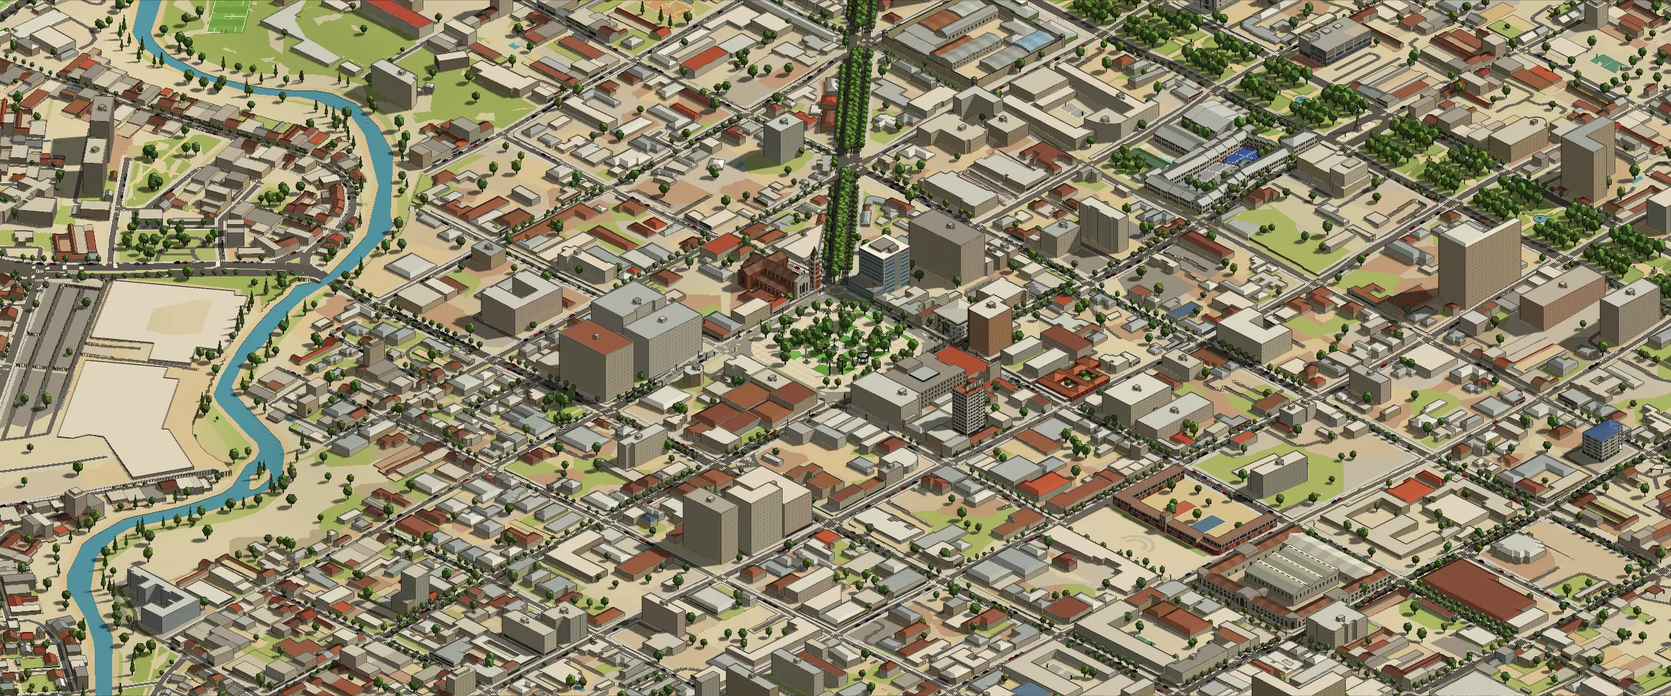
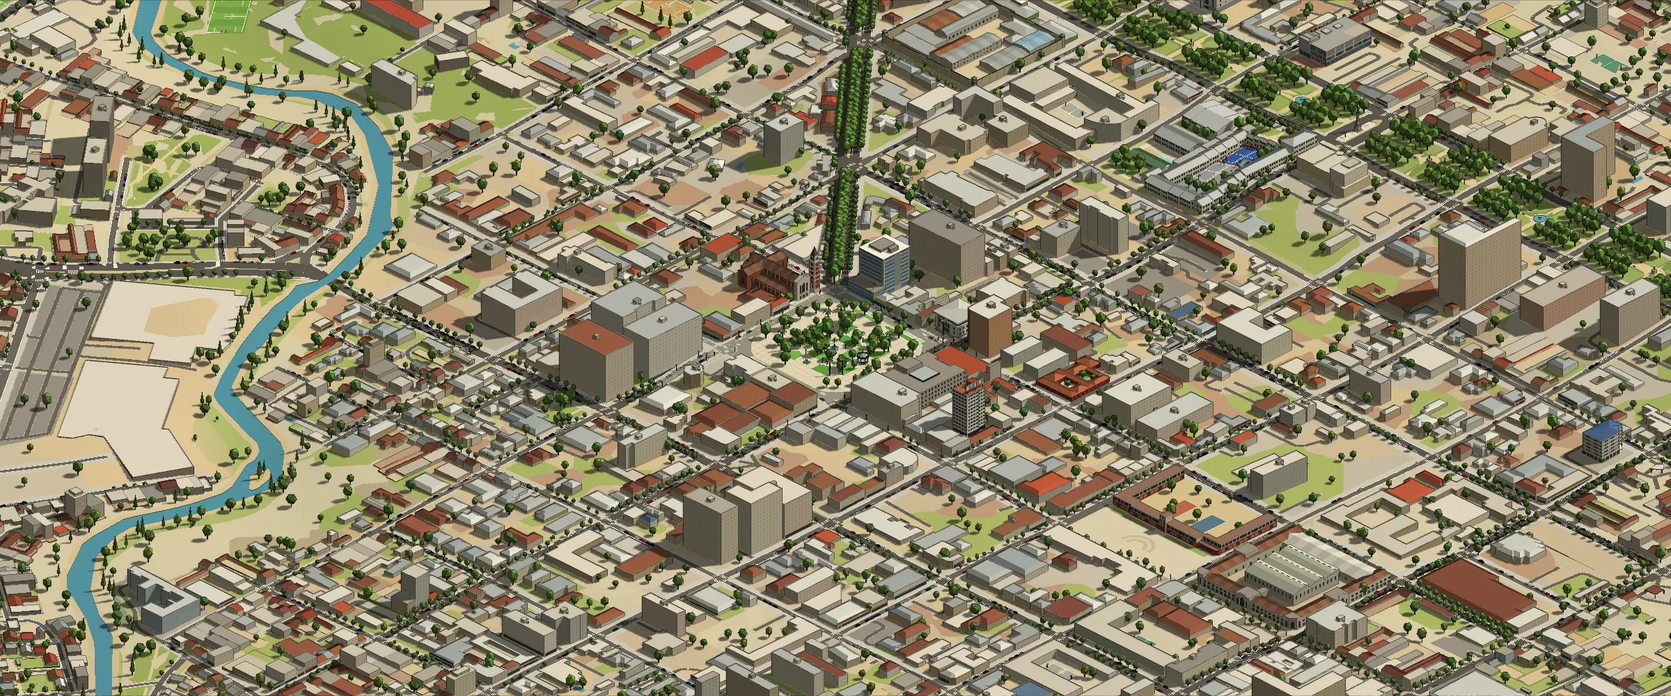
El suelo de las manzanas enteras de OSM apoyado en el terreno (drapeQ, a 0,2), en vez de un plano por manzana que en 103 de 128 se despegaba más de 0,5 m del suelo (la franja de 1 Sur frente a la plaza, hasta 2,5 m); pósters y og.jpg rehechos

diff --git a/src/js/52-edificios.js b/src/js/52-edificios.js
@@ -293,26 +293,20 @@ function edRaster(Y,bk,bb){const C=bk.ml?2:1,FRONT=3.2,{bi,mix,surf}=bk,xs=ED_XS
     pc=eds.map(e=>e.t==='techo'||e.t==='galpon'||(mix&&e.t!=='casa'&&e.t!=='otro')?pick(r,CP.paved):yb||pick(r,yc)),
     colOf=v=>v===-2?ED_K.walk:v===-4?PASEO_K.pave:v===1?(mix?null:PAL.backlot[bi%3]):v>=100?pc[v-100]:v>=10?ED_K.surf[surf[v-10].k]:null;
   const laid=(i,j)=>{if(i<0||j<0||i>=nx||j>=ny)return false;const v=own[j*nx+i];return v>0||v===-2||v===-4;};
-  // a whole block: the tops of the rectangles lie on one plane fitted to its ground (least squares over a 5 m grid of
-  // it, raised to clear the highest point by o): with a top per rectangle at its own height, the few millimetres
-  // between neighbours were outlined by the pixel art, and tops following the terrain left cracks at the T-junctions
-  let qa=0,qb=0,qc=E(X0+nx/2,Y0+ny/2),lift=0;
-  if(!mix){let n=0,sx=0,sy=0,sz=0,sxx=0,syy=0,sxy=0,sxz=0,syz=0;
-    for(let j=0;j<ny;j+=5)for(let i=0;i<nx;i+=5){if(!laid(i,j))continue;const x=i-nx/2,y=j-ny/2,z=E(X0+i+.5,Y0+j+.5);n++;sx+=x;sy+=y;sz+=z;sxx+=x*x;syy+=y*y;sxy+=x*y;sxz+=x*z;syz+=y*z;}
-    if(n>=3){const mx=sx/n,my=sy/n,mz=sz/n,cxx=sxx/n-mx*mx,cyy=syy/n-my*my,cxy=sxy/n-mx*my,cxz=sxz/n-mx*mz,cyz=syz/n-my*mz,det=cxx*cyy-cxy*cxy;
-      if(Math.abs(det)>1e-9){qa=(cxz*cyy-cyz*cxy)/det;qb=(cyz*cxx-cxz*cxy)/det;}qc=mz-qa*mx-qb*my;}
-    for(let j=0;j<ny;j+=2)for(let i=0;i<nx;i+=2){if(!laid(i,j))continue;lift=Math.max(lift,E(X0+i+.5,Y0+j+.5)-(qa*(i+.5-nx/2)+qb*(j+.5-ny/2)+qc));}}
-  const plane=(x,y)=>qa*(x-X0-nx/2)+qb*(y-Y0-ny/2)+qc+Math.min(lift,.6);
+  // the rectangles lie on the ground (drapeQ: cut at the terrain mesh's triangles, so neighbours share its surface,
+  // no cracks at the T-junctions and no millimetres between them for the pixel art to outline), at .135 in a mixed
+  // block, under its lots' slabs; at .2 in a whole one (.18 its strip of sidewalk to the facades, -2, and a paseo's,
+  // -4). Until November 2026 a whole block's lay on one plane fitted to its ground by least squares: most blocks'
+  // ground is not a plane (the plaza's pad and the city rising to the east), and 103 of 128 rose more than 0.5 m
+  // above it somewhere (the strip along 1 Sur, south of the plaza, up to 2.5 m) or sank under it
   let open=new Map();const emit=(x0,x1,y0,y1,v)=>{const col=colOf(v);if(!col)return;const q=[[X0+x0*C,Y0+y0*C],[X0+x1*C,Y0+y0*C],[X0+x1*C,Y0+y1*C],[X0+x0*C,Y0+y1*C]];EDS.rects++;
     if(mix){drapeQ(Y,q,.135,col);return;}
-    const o=v===-2||v===-4?.18:.2,sd=shade(col,.82);Y.dy=0;const tp=q.map(p=>[p[0],plane(p[0],p[1])+o,-p[1]]);Y.face(tp,[0,1,0],col);
-    const out=[[(x0+x1)/2,y0-.5,0,-1],[x1+.5,(y0+y1)/2,1,0],[(x0+x1)/2,y1+.5,0,1],[x0-.5,(y0+y1)/2,-1,0]];
+    const o=v===-2||v===-4?.18:.2;Y.dy=0;drapeQ(Y,q,o,col);
     // an underlay 3 cm lower, wider by 0.25 m on the sides with a laid neighbour: the raster leaves pixel gaps at the
     // T-junctions between rectangles, and they show it, in the same colour, instead of the ground (an outlined dot)
-    const g=out.map(([ci,cj])=>laid(Math.floor(ci),Math.floor(cj))?.25:0),u=[[X0+x0-g[3],Y0+y0-g[0]],[X0+x1+g[1],Y0+y0-g[0]],[X0+x1+g[1],Y0+y1+g[2]],[X0+x0-g[3],Y0+y1+g[2]]];
-    if(g.some(v=>v))Y.face(u.map(p=>[p[0],plane(p[0],p[1])+o-.03,-p[1]]),[0,1,0],col);
-    for(let k=0;k<4;k++){const [ci,cj,nx_,ny_]=out[k];if(laid(Math.floor(ci),Math.floor(cj)))continue;const a=tp[k],b=tp[(k+1)%4];
-      Y.face([[a[0],E(q[k][0],q[k][1])-.4,a[2]],[b[0],E(q[(k+1)%4][0],q[(k+1)%4][1])-.4,b[2]],b,a],[nx_,0,-ny_],sd);}};
+    const out=[[(x0+x1)/2,y0-.5],[x1+.5,(y0+y1)/2],[(x0+x1)/2,y1+.5],[x0-.5,(y0+y1)/2]];
+    const g=out.map(([ci,cj])=>laid(Math.floor(ci),Math.floor(cj))?.25:0);
+    if(g.some(v=>v))drapeQ(Y,[[X0+x0-g[3],Y0+y0-g[0]],[X0+x1+g[1],Y0+y0-g[0]],[X0+x1+g[1],Y0+y1+g[2]],[X0+x0-g[3],Y0+y1+g[2]]],o-.03,col);};
   const cid=new Map(),same=bk.ml?(v=>{const c=colOf(v);if(!c)return -1e9;let k=cid.get(c);if(k===undefined)cid.set(c,k=cid.size);return k;}):(v=>v);
   for(let j=0;j<=ny;j++){const cur=new Map();
     if(j<ny)for(let i=0;i<nx;){const v=own[j*nx+i],sv=same(v);let e=i+1;while(e<nx&&same(own[j*nx+e])===sv)e++;if(colOf(v)){EDS[mix?'cellsX':'cells']+=(e-i)*C*C;const k=i+','+e+','+sv,o=open.get(k);cur.set(k,o?o:[i,e,j,v]);open.delete(k);}i=e;}

diff --git a/CLAUDE.md b/CLAUDE.md
@@ -147,7 +147,7 @@ Secciones del script, en orden:
 | `40-three.js` | cámara ortográfica, luces (cielo `HEMI_I`, sol `SUN_I` en la dirección `SUND`, con sombras), `winMat()`: Lambert con ventanas procedurales en el shader (`uNight`, `uWin`) |
 | `45-landmarks.js`, `hitos/` | `buildModels(B, S)`: modelos a mano de los hitos, cada uno en su archivo `hitos/<id>.js`, que empieza con la línea `  // ==== hito: <id> ====` (no la borre: la revisa `make check`), pegados en el marcador `/*HITOS*/` del cuerpo de la función en el orden de `hitos/ORDER` (el orden importa; su encabezado dice por qué). Un hito usa las variables de la cabecera de `buildModels` (`C`, `at`, `reserve`, `p`) y las que declaran los hitos anteriores (`palmS`, `flagS`, de la plaza). Reservan su huella en `occ` y registran una explanada (`padAt`) antes de generar la ciudad. `S` se dibuja sin ventanas procedurales (el Estadio, la Catedral). `localFrame(X,Y,A)` da el marco local de un hito (`G`, `V`, `N3`, `R`) y `facade(S,F,K)` el vocabulario de fachada (muros, paños, arcos, vitrales, techos; ESTETICA §7). `NOLOTS` excluye recintos enteros de la ciudad generada; `GLOW` agrega luces nocturnas a `lamps()`. `deckBridge(S,K,pts,hw,hAt,o)` (antes de `buildModels`) dibuja un tablero sobre pilas para cualquier puente, con la altura `hAt(p)` del vano, veredas y parapetos o balaustrada, y marca su huella en `occ`: lo usan los dos puentes del Río Claro |
 | `50-city.js` | `CITY_ORDER`: las calles en el orden en que `cityGen` pone sus lotes, de la más cercana a la Plaza de Armas a la más lejana (trampa «El orden de la ciudad»); `blockTrees(bi)`: los árboles de parque y de patio de cada manzana, con una cuota fija (`YARD_K`). `styleFor()` clasifica cada manzana (core, core2, ind, apt, house); `barrios()` agrupa las manzanas construidas en barrios (Voronoi de semillas cada `BAR_G` m) y les da una receta según distancia a la plaza y densidad (`recipeOf(bi)`: antiguo, pob, pareada, fila, condo; bloques para `apt`; galpones en las manzanas grandes casi vacías). `cityGen(B, Y)` recorre cada tramo de calle por ambos lados y coloca casas, cada una sobre su lote: una losa en `Y` (sin ventanas) que llega al medio de la manzana, con alas, construcciones al fondo, mediaguas y árboles de patio. Techos por familia en dos tonos (`CP.roof`, mezclas `MIX`), `hipRoof()`, `lotWalls`/`lotGable` (pareadas y filas sin muros interiores), almacenes en esquinas y avenidas (`shopFront`), galpones de dos aguas, diente de sierra y bóveda con estanques. Lo que no lleva ventanas va en `Z`, una malla propia que crea `cityGen`. Los lotes se prueban entre sí como rectángulos exactos (`LOTS`, `lotFree`, `sepQuad`) |
-| `52-edificios.js` | bajo `// ==== edificios de OSM ====`: `ED` decodifica `DATA.ed` (pipeline/edificios.py; las huellas de `DATA.ed.h` con las mismas operaciones que `h_encode`, que da los mismos enteros): `ED.bks`, las manzanas enteras (`blocks[bi].osm`, donde `cityGen()` no pone lotes) y las mixtas (`blocks[bi].mixto`, donde los pone en los frentes libres), cada una con sus edificios y superficies. `edificiosPlan()` (después de los hitos, antes de `usosPlan`) deja fuera los que un hito ya modela, recorta las plantas a la línea de las veredas (`clipHalf`) y las marca en `occ` con 3; en una manzana mixta, `edHulls(bk)` cierra a los lotes (`lotBlock`, en `50-city.js`) la envolvente convexa de cada edificio crecida `ED_GAP` (2 m) y la de cada superficie (`edHull`), justo antes de la primera calle que la alcanza (`edHullsFor`) o de su suelo (trampa «Las manzanas mixtas»). `edificiosBase(B,Z,Y,bks)` (antes de la ciudad, clave 2,5e7 + la manzana; las de la caja de la primera vista en la primera etapa, el resto en `rest()`) dibuja cada edificio (`edificio()`: muros con `ringWalls`, techo plano con pretil o a cuatro aguas con `insetRing`, `flatH` para polígonos con huecos, `shopFront` en los frentes a la calle) y el suelo de la manzana (`edificiosGround`/`edRaster`: grilla de 1 m, superficies de OSM y patios por búsqueda en anchura; en una entera, franja de vereda hasta las fachadas y rectángulos de losa sobre un plano por manzana; en una mixta, los patios hasta `ED_YARD` (20 m) de cada edificio, apoyados en el suelo a 0,135, bajo las losas de los lotes, un raster por grupo de edificios). Las huellas de aprendizaje automático (`e.f`: `ms`, `google`; trampa «Las huellas de aprendizaje automático») van en las mixtas y en grupos sueltos (`bk.loose`, de `DATA.ed.z`: sin manzana ni suelo, con su envolvente en `lotBlock`); una manzana mixta con huellas (`bk.ml`) toma celdas de 2 m y junta sus rectángulos por color, y si mide menos de `ED_SOLID` (6 ha) es sólida (`bk.solid`): su propio suelo (`buildBase`, `edYardCol`) toma el color de patio del barrio y el raster solo corre alrededor de lo que no es casa y de las superficies. `window.__ed` da los conteos (`src`, por fuente) y los ms (`decodeMs`, `planMs`, `msEd` edificios, `msGm` y `msGx` el suelo de las enteras y las mixtas) |
+| `52-edificios.js` | bajo `// ==== edificios de OSM ====`: `ED` decodifica `DATA.ed` (pipeline/edificios.py; las huellas de `DATA.ed.h` con las mismas operaciones que `h_encode`, que da los mismos enteros): `ED.bks`, las manzanas enteras (`blocks[bi].osm`, donde `cityGen()` no pone lotes) y las mixtas (`blocks[bi].mixto`, donde los pone en los frentes libres), cada una con sus edificios y superficies. `edificiosPlan()` (después de los hitos, antes de `usosPlan`) deja fuera los que un hito ya modela, recorta las plantas a la línea de las veredas (`clipHalf`) y las marca en `occ` con 3; en una manzana mixta, `edHulls(bk)` cierra a los lotes (`lotBlock`, en `50-city.js`) la envolvente convexa de cada edificio crecida `ED_GAP` (2 m) y la de cada superficie (`edHull`), justo antes de la primera calle que la alcanza (`edHullsFor`) o de su suelo (trampa «Las manzanas mixtas»). `edificiosBase(B,Z,Y,bks)` (antes de la ciudad, clave 2,5e7 + la manzana; las de la caja de la primera vista en la primera etapa, el resto en `rest()`) dibuja cada edificio (`edificio()`: muros con `ringWalls`, techo plano con pretil o a cuatro aguas con `insetRing`, `flatH` para polígonos con huecos, `shopFront` en los frentes a la calle) y el suelo de la manzana (`edificiosGround`/`edRaster`: grilla de 1 m, superficies de OSM y patios por búsqueda en anchura; en una entera, franja de vereda hasta las fachadas y rectángulos de losa apoyados en el terreno a 0,2 (`drapeQ`); en una mixta, los patios hasta `ED_YARD` (20 m) de cada edificio, apoyados en el suelo a 0,135, bajo las losas de los lotes, un raster por grupo de edificios). Las huellas de aprendizaje automático (`e.f`: `ms`, `google`; trampa «Las huellas de aprendizaje automático») van en las mixtas y en grupos sueltos (`bk.loose`, de `DATA.ed.z`: sin manzana ni suelo, con su envolvente en `lotBlock`); una manzana mixta con huellas (`bk.ml`) toma celdas de 2 m y junta sus rectángulos por color, y si mide menos de `ED_SOLID` (6 ha) es sólida (`bk.solid`): su propio suelo (`buildBase`, `edYardCol`) toma el color de patio del barrio y el raster solo corre alrededor de lo que no es casa y de las superficies. `window.__ed` da los conteos (`src`, por fuente) y los ms (`decodeMs`, `planMs`, `msEd` edificios, `msGm` y `msGx` el suelo de las enteras y las mixtas) |
 | `55-rivers.js` (ríos), `60-streets.js` (veredas, cruces, árboles de vereda, autos), `62-diagonal.js`, `63-paseos.js` (`paseosBase`: los paseos peatonales de `PASEOS`, en `10-decode.js`, con su ancho, baldosas, árboles, faroles y maceteros), `64-base.js` (`walkBase`, `buildBase`), `66-ruta5.js`, `68-rail.js` | parcelas agrícolas, manzanas, ríos (con suavizado Chaikin), Ruta 5 (`ruta5Base`: dos calzadas de OSM, `R5.c`, con sus pistas, líneas, bandejón y ramales `R5.k`, a 0,16 sobre las calles; sus tramos en puente o terraplén los dibujan los hitos con `r5Deck`/`r5Raise`, que dejan huecos en `R5C[k].gaps`; `ruta5Objects()` pone la barrera, los postes, cuyas luces van a `GLOW`, y los autos), calles, vía férrea (`railBase`, sobre ellas); todo pasa por `drape()`. Los tres ríos son de OSM (`RIV[k]`, de `DATA.area[k]`; ramas laterales en `DATA.branch`) y van sobre las manzanas (`riverBase`): el agua de todos en una malla propia (`riverWater`, `matWater` con `polygonOffset`), con franjas de ripio fuera de las orillas y una cinta de `ancho_m` sobre el eje donde no hay área (`riverRuns`); `riversLevel`/`riversRelevel` los nivelan, `riversOcc` los deja ocupados y `linesOcc` hace lo mismo con la Ruta 5 y la vía férrea. `walkRuns(sis, occOf)` traza las veredas de las calles `sis`; `walkBase()` (`64-base.js`) hace en la primera etapa solo las calles cuyas veredas alcanzan `STAGE`, y `walkRest()` las demás al comienzo de `rest()`, con `occWas`. `CLARO` e `inClaro` siguen como atajos para los hitos de la ribera. Una calle con `s.bridge` (la Ruta K-60-J sobre el río) no se dibuja: la dibuja el hito del puente. `railBase()` dibuja las dos líneas (`DATA.rail`, `DATA.ramal`) y las vías de patio (`RAIL_YARD`) muestreadas cada 0,7 m con un perfil de alturas: en el suelo, balasto, durmientes y rieles drapeados; donde una calle pasa bajo la vía (`DATA.railx` tipo 0), terraplén y tablero; los puentes que registran los hitos (`RAIL_BR`) se dibujan ahí, con el perfil final. Lo que no es plano (terraplenes, tableros, puentes, postes, señales, barreras) va en una malla propia que proyecta sombra. `RAILP` (`window.__rail`) guarda cada línea como camino para el tren |
 | `70-trains.js` | bajo `// =============== trains ===============`: `trainCar()` construye cada coche (sfb, adm, loco, wagon; `nose` ±1 para las cabinas) en un marco local; `makeTrain()`/`trainPlace()` los ubican por su `s` sobre `RAILP`, a la altura `h` y orientados por la tangente entre sus bogies; `trainsInit()` (en `boot`, después de `buildBase`) arma los tres trenes y el horario de cada línea (`TRAIN.lines`); `trainsTick(now)` (desde `loop`) avanza el horario y los trenes y devuelve `true` cuando corresponde un cuadro: a `TRAIN_FPS` (18) mientras un tren se mueve dentro de la vista. `trainTurn()` da vuelta un tren: en su lugar (el Buscarril en el andén) o fuera del mapa (la locomotora sigue adelante). De noche, `trainsNight()`: ventanas por `matTrainWin.emissive` y el foco como un punto de `TRAIN.pts` (`GLOWPTS`, con los faroles). `window.__train`, `__trains`, `__trainFps` |
 | `72-alameda.js` | la Alameda: `ALAM` (las franjas de parque en el medio de la avenida), `alamedaPlan()` (la plaza de cada tramo, centrada en un hito; trampa «El punto de un edificio junto a la Alameda»), `alamedaGround()` y `alamedaPark()` (paseo, plazas, faroles y álamos); también `PO_FIELD` y `PLAZA_BI` |
@@ -273,7 +273,7 @@ Se publica con `make deploy` (`scripts/deploy-cloudflare.sh`: `make build` y `np
 - **`occ` no es un arreglo.** Sobre la caja de la comuna serían 78 millones de celdas (y otras tantas para `OCC0` y `BLK`): es un `Grid` en bloques de 128 × 128 que se crean al escribir. Use `occ.get(gx, gy)` y `occ.set(gx, gy, v)` dentro de la caja (quien llama revisa los bordes), no `occ[gy*ocW+gx]`.
 - **Los `bi` de `config/usos.json` son índices de `data/geometry.json`.** Si cambia qué manzanas entran o su orden (otro recorte, otro filtro), los índices cambian: hay que rehacerlos con la manzana idéntica de la geometría nueva, como en octubre de 2026 al pasar a la comuna (los que caían fuera quedaron como `poly`). `make check` no lo detecta.
 - **Los edificios de OSM marcan `occ` con 3, no con 1.** Con 1 cortarían las veredas, los cruces, los árboles de vereda y los autos estacionados (todo eso cede solo ante 1) y la prueba de `cityGen` los vería; con 3 los evitan los árboles (`occAt` verdadero), los objetos de los usos (`fits` lee `OCC0` como verdadero) y los pabellones genéricos de un uso con edificios de OSM encima (`u.osm`). Algo nuevo que deba esquivar edificios reales pregunte por `occAt(x,y)` verdadero, no por `=== 1`.
-- **Losas de los edificios de OSM.** El suelo de una manzana de OSM son miles de rectángulos de 1 m fusionados. Con un techo plano por rectángulo a su propia altura (como los lotes de `cityGen`), los milímetros entre vecinos los contorneaba el pixel art (líneas punteadas); siguiendo el terreno, quedaban grietas en las uniones en T. Por eso todos los de una manzana entera van sobre un plano ajustado a su suelo, con una base 3 cm más abajo y 0,25 m más ancha hacia los vecinos, del mismo color, que tapa los huecos de rasterización de las uniones en T. En una manzana mixta los patios no son losas: van apoyados en el terreno (`drapeQ`, que corta en los triángulos de la malla y no deja grietas) a 0,135, bajo las losas de los lotes de `cityGen` (0,2 sobre el suelo), que los tapan donde caen. A 0,11, la altura de los usos, salían rayados en el pixel art (junto al Lider de Avenida Colín); 0,135 queda entre las clases de calle, y el margen de 0,8 m de las calles sin vereda impide que una celda las pise.
+- **Losas de los edificios de OSM.** El suelo de una manzana de OSM son miles de rectángulos de 1 m fusionados. Con un techo plano por rectángulo a su propia altura (como los lotes de `cityGen`), los milímetros entre vecinos los contorneaba el pixel art (líneas punteadas); siguiendo el terreno punto por punto, quedaban grietas en las uniones en T. Por eso van apoyados en el terreno con `drapeQ`, que los corta en los triángulos de la malla: los vecinos comparten la superficie, sin grietas ni milímetros entre ellos; en una manzana entera a 0,2 (la franja de vereda hasta las fachadas, a 0,18), con una base 3 cm más abajo y 0,25 m más ancha hacia los vecinos, del mismo color, que tapa los huecos de rasterización de las uniones en T. Hasta noviembre de 2026 los de una manzana entera iban sobre un plano ajustado por mínimos cuadrados a su suelo, que casi nunca es un plano (la explanada de la plaza, la ciudad que sube al oriente): en 103 de las 128 manzanas el plano quedaba más de 0,5 m sobre el suelo en alguna parte (la franja de 1 Sur frente a la plaza, hasta 2,5 m: en el juego asomaba por las fachadas) o se hundía bajo él. En una manzana mixta los patios no son losas: van apoyados en el terreno igual, a 0,135, bajo las losas de los lotes de `cityGen` (0,2 sobre el suelo), que los tapan donde caen. A 0,11, la altura de los usos, salían rayados en el pixel art (junto al Lider de Avenida Colín); 0,135 queda entre las clases de calle, y el margen de 0,8 m de las calles sin vereda impide que una celda las pise.
 - **Las manzanas mixtas.** En ellas `cityGen()` pone lotes, y sus pruebas (`fits`: `occ === 1` cada 2,5 m; `lotFree`: los rectángulos exactos de `LOTS`) no verían los edificios de OSM, marcados con 3. Por eso `edHulls()` registra en la grilla de los lotes (`lotBlock`, sin marca en `occ`) la envolvente convexa de cada edificio crecida 2 m y la de cada superficie: `lotFree` rechaza todo lote o patio que las toque, y los patios se achican como ante otro lote. Las envolventes de cada manzana (`edHulls`) se calculan antes de toda calle cuyos lotes la alcancen (`CITY_REACH` desde su eje): en la primera etapa, las de las manzanas que alcanzan las calles más cercanas que `rho` (`edHullsFor`, ~200 de 3.200) y las de la caja de la vista (`edificiosBase` las pide antes de su suelo); las demás en `rest()`, antes de las calles lejanas. La marca en `occ` (3) sí va entera en la etapa 0: la leen `usosPlan` (`OCC0`, `u.osm`), `wildTrees` y el suelo de toda la comuna. Algo nuevo que lea `LOTS` o `bk.obs` fuera de `cityGen` y del suelo de su manzana tiene que pedir `edHulls(bk)` antes (trampas «El arranque en dos etapas» y «El orden de la ciudad»). `__stats.lots` descuenta esas envolventes (`__ed.hulls`). Las casas de OSM que dan a un pasaje interior (las villas: el mapa no tiene calles ni lotes ahí) quedan con su patio y sin casas generadas alrededor.
 - **Las huellas de aprendizaje automático.** Las de Microsoft y Google (Overture, `tools/ml_buildings.py`) entran donde OSM no tiene el edificio, nunca en una manzana entera ni en el centro (`"ml": false` en su área de `config/edificios.json`), y solo OSM hace una manzana entera: un 11–15 % de las huellas junta en una sola las fachadas continuas de dos o más edificios (en el centro, recall ~64 % del área). Vienen corridas unos 2,5 m de OSM, en sentidos opuestos (Microsoft al oriente, Google al poniente): `edificios.py` mide la mediana con los pares 1:1 de los archivos crudos (`raw/edificios-ml/ajuste-*.jsonl`, porque Overture ya quitó las que pisan OSM) y la resta en cada corrida; sin eso, un 2,8 % de su área caía en las calzadas. Las de Google bajo 0,8 de confianza son sobre todo trozos de techo y falsos positivos: no entran. Los pisos de Google 2.5D Temporal no separan uno de dos (bajo 11 m siguen estimados) y en las naves grandes leen la cubierta como una torre (el Gimnasio Regional, 29 m): nada sobre 2.500 m² ni con `leisure`/`sport`. Una huella fuera de toda manzana va suelta: si después aparece una manzana `vivienda` encima (`config/usos.json`), su envolvente igual cierra los lotes (`edificiosPlan`), pero rehaga `make edificios` para que la villa sea mixta, con patios. Una huella que otra mayor cubre en más de la mitad es un duplicado de Overture y no entra (`dups()`, ~1.050). En `data/edificios.json` van redondeadas a 0,5 m (`HQ`, el píxel de arte): cada lado se mueve hasta 25 cm en su perpendicular y la dirección hasta ~0,25°, y dos casas pareadas en la misma dirección siguen compartiendo el muro; las ~600 que no son rectilíneas van como polígono sobre la grilla de la maqueta. La semilla de cada una (colores, uno o dos pisos) sale de sus enteros: un cambio de `HQ` o de `HK` cambia los colores de todas. El decodificador de `52-edificios.js` repite las operaciones de punto flotante de `h_encode` en el mismo orden (enteros, `Math.sqrt`, `Math.floor(v + .5)`): si se cambia uno, el otro igual, o el primer vértice de cada huella, que va relativo al de la anterior, se corre.
 - **Las torres en la imagen de Esri.** La imagen no está ortorrectificada: el techo de un edificio alto aparece corrido hacia afuera de su planta, y lo que se muestrea ahí es fachada o calle. `edificio()` no da familias de techo cálidas (teja, óxido) a los de cuatro pisos o más.

diff --git a/docs/METODOLOGIA.md b/docs/METODOLOGIA.md
@@ -409,7 +409,7 @@ Desde que el mapa abre sobre la Plaza de Armas (zoom 5–6), lo primero que se v
 
 **El color del techo.** `uv run --with pillow python pipeline/edificios.py techos 19` clasifica el techo de cada edificio con la imagen de Esri: la mediana de los píxeles más claros dentro de la planta (sin el borde de 1 m: aleros, vecinos; sin el 40 % más oscuro: sombras), en una de las familias de techo de la plantilla (`CP.roof`). Guarda solo la familia, en `config/techos.json` (FUENTES). La imagen es muy desaturada: la teja y el óxido del centro salen como cafés de saturación 0,1–0,2, y los umbrales de `roof_family()` están calibrados con su histograma. Las copas de árboles (verde) y la sombra quedan sin familia. En las torres la imagen no sirve (no está ortorrectificada: el techo de un edificio alto aparece corrido y la muestra cae en la fachada o la calle), así que la plantilla no les da familias cálidas. Resultado en el centro: 301 claros, 498 de zinc, 200 de teja u óxido. En toda la comuna (octubre de 2026, zoom 19: 5.026 teselas, casi todas ya en `raw/satelite/`; las que faltaban tardaron ~40 min): 4.010 de 4.070 edificios con familia, 1.210 claros, 1.988 de zinc, 781 de teja, óxido o rojo y 31 azules. Las casas de las manzanas mixtas que quedan sin familia toman la de la receta de su barrio.
 
-**Render** (`src/js/52-edificios.js`). `cityGen()` no pone lotes en las manzanas enteras. `edificiosPlan()`, después de los hitos y antes de los usos, deja fuera los edificios que un hito ya modela (su punto adentro, o un cuarto de la planta sobre lo que ocupan los hitos o sus recintos: 31 en el centro), recorta cada planta a la línea de las veredas (208) y la marca en `occ` con 3 (los árboles y los objetos de los usos la evitan; las veredas, que solo ceden ante 1, siguen). `edificiosBase()`, antes de la ciudad: muros con las ventanas del sombreador; techo plano con pretil blanco, o, en las casas de uno o dos pisos con techo de teja, óxido o lata, un techo a cuatro aguas hecho con la planta hacia adentro, que sirve para cualquier planta (459); vitrinas y letreros (`shopFront`) en los frentes a la calle (277); caja de escalera y estanque en las torres; marquesinas sobre pilares, ruinas sin techo, galpones sin ventanas. Luego el suelo de cada manzana entera en una grilla de 1 m: la franja entre la vereda y las fachadas como vereda (en el centro las fachadas están en la línea de la calle, y las veredas del mapa terminan ~2,4 m antes), las superficies de OSM, y el resto con el color de patio del edificio más cercano (búsqueda en anchura desde las plantas), en rectángulos de losa sobre un plano ajustado al suelo de la manzana (trampa «Losas de los edificios de OSM»).
+**Render** (`src/js/52-edificios.js`). `cityGen()` no pone lotes en las manzanas enteras. `edificiosPlan()`, después de los hitos y antes de los usos, deja fuera los edificios que un hito ya modela (su punto adentro, o un cuarto de la planta sobre lo que ocupan los hitos o sus recintos: 31 en el centro), recorta cada planta a la línea de las veredas (208) y la marca en `occ` con 3 (los árboles y los objetos de los usos la evitan; las veredas, que solo ceden ante 1, siguen). `edificiosBase()`, antes de la ciudad: muros con las ventanas del sombreador; techo plano con pretil blanco, o, en las casas de uno o dos pisos con techo de teja, óxido o lata, un techo a cuatro aguas hecho con la planta hacia adentro, que sirve para cualquier planta (459); vitrinas y letreros (`shopFront`) en los frentes a la calle (277); caja de escalera y estanque en las torres; marquesinas sobre pilares, ruinas sin techo, galpones sin ventanas. Luego el suelo de cada manzana entera en una grilla de 1 m: la franja entre la vereda y las fachadas como vereda (en el centro las fachadas están en la línea de la calle, y las veredas del mapa terminan ~2,4 m antes), las superficies de OSM, y el resto con el color de patio del edificio más cercano (búsqueda en anchura desde las plantas), en rectángulos de losa apoyados en el terreno con `drapeQ`, a 0,2 (trampa «Losas de los edificios de OSM»; hasta noviembre de 2026 iban sobre un plano ajustado al suelo de la manzana, que se despegaba del terreno).
 
 **Manzanas mixtas.** Las pruebas de `cityGen()` no ven los edificios de OSM (`occ` 3), así que `edificiosPlan()` cierra a los lotes la envolvente convexa de cada edificio crecida 2 m, y la de cada superficie de OSM, en la misma grilla exacta con que los lotes se prueban entre sí (`lotBlock`): un lote o su patio que la toque no se pone, o se achica. Los frentes que quedan libres (6 m o más) se llenan con las casas del barrio. El suelo: en las villas las casas dan a pasajes interiores que el mapa no tiene, y entre las de OSM quedaba la arena de la manzana. Por eso cada edificio lleva su patio hasta 20 m (la misma búsqueda en anchura, con los colores de patio de la receta del barrio para las casas y pavimento para lo demás), apoyado en el terreno a 0,135, bajo las losas de los lotes, que lo tapan donde caen; el patio no pisa los usos de suelo ni los recintos de los hitos. Se calcula un raster por grupo de edificios cercanos, no uno sobre la manzana: en las afueras hay manzanas «construidas» de decenas de hectáreas.
 

diff --git a/CHANGELOG.md b/CHANGELOG.md
@@ -2,6 +2,7 @@
 
 ## Sin publicar
 
+- **El suelo de las manzanas enteras de OSM, apoyado en el terreno.** Los rectángulos de patio, superficies y la franja de vereda hasta las fachadas de una manzana entera iban sobre un plano ajustado por mínimos cuadrados a su suelo, que casi nunca es un plano (la explanada de la plaza, la ciudad que sube al oriente): en 103 de las 128 manzanas quedaba más de 0,5 m sobre el suelo en alguna parte (frente a la plaza, la franja de 1 Sur subía hasta 2,5 m, con un muro de faldón hasta el terreno) o se hundía bajo él (hasta 4,9 m). Ahora van con `drapeQ`, como los patios de las manzanas mixtas: cortados en los triángulos de la malla, a 0,2 (la franja, a 0,18), sin grietas en las uniones en T ni milímetros entre vecinos, con la misma base 3 cm más abajo. Cambian las vistas del centro (3–7 % de los píxeles junto a la plaza, ~1 % en la estación); el arranque en dos etapas sigue idéntico al de una vez; el suelo de esas manzanas pasa de 2,03 a 2,23 millones de vértices. Pósters y `og.jpg` rehechos.
 - **La plaza como fondo de un set de producción virtual.** Como las pantallas de LED de The Mandalorian, en chico: `Godot --path juego -- --vp` muestra la plaza en pantalla completa en una tele, como una ventana vista desde donde está el teléfono que filma, con el paralaje correcto desde ahí. El teléfono (Chrome en Android, WebXR con ARCore) abre `juego/vp/telefono.html`, que sirve el mismo Godot, y manda la posición de su cámara en cada cuadro por WebSocket (por USB con `adb reverse`, porque WebXR exige localhost o https). Una proyección descentrada (`PROJECTION_FRUSTUM`) con el plano cercano en la pantalla misma: solo importa la posición del teléfono, no hacia dónde apunta. Se calibra parando el teléfono sobre el borde de arriba de la tele, una vez por sesión de WebXR (cada una tiene su propio origen: cada pose lleva el id de su sesión, y una de otra sesión deja la tele sin calibrar); se predice la posición 50 ms adelante por el retraso. Las flechas mueven la ventana por la plaza, +/− cambian la escala (un metro del living, S de la plaza), R muestra un túnel cuadriculado para comprobar la calibración y M mueve el ojo con el mouse, sin teléfono. Probado en Godot 4.7 sin pantalla: la proyección (las esquinas de la tele caen en las de la imagen, y un punto detrás de ella donde la recta desde el ojo cruza la pantalla), la calibración, la página y el WebSocket (con un cliente que hace de teléfono: el ojo calculado, el cambio de sesión); falta probarlo con un teléfono y una tele. H también oculta la hora de `ambiente.gd`, que si no saldría en lo filmado, y +/− van por el carácter (el teclado español).
 - **Otras comunas: el diagnóstico.** docs/PLAN-COMUNAS.md revisa cuánto de Talca está fijo en el código: los parámetros del pipeline (origen, giro, códigos de comuna, una tesela de elevación), el código de la página que nombra a Talca (lo que falla con otra comuna, como la plaza en `72-alameda.js` y las etiquetas de los ríos, y lo que sale mal en silencio, como el santuario de `buildCerro()` y la Diagonal), las calibraciones de la ciudad generada y el contenido curado. Propone un plan por fases que deja a Talca idéntica (`tools/regress.py`), con Curicó como caso de prueba. `pipeline/grilla.py` mide el giro de la grilla de una ciudad: Talca +5,0°, Curicó −5,9°.
 - **Las calles de la plaza, como en el juego.** Un hito sin ficha (`src/js/hitos/calles-plaza.js`, al final de `ORDER`) viste las cuatro calles que rodean la Plaza de Armas y sus tramos hasta 132 m, con lo que leyó el juego en `juego/modelos/calles.gd`: la calzada de losas de hormigón (OSM `surface=concrete`, la foto de 1 Norte de 2022) y 1 Oriente de asfalto, líneas de pista segmentadas (`laneLines`, en `60-streets.js`: 0,4 m de ancho, 3 m cada 8 m, fuera de los cruces y de las cebras), 53 faroles de fierro verde con su luz de noche (en lugar de los genéricos de esas calles, `LAMP_SKIP`), los 8 semáforos de OSM en la solera derecha de quien llega, con la luz roja encendida, y los árboles de vereda de OSM (14 caen fuera de la plaza y de las calzadas del mapa) en lugar de los generados de esas calles (`CLEAR_T`). Se dibuja sobre las calles del mapa y no sobre las soleras del juego: las calzadas del mapa quedan hasta ~2 m corridas de las reales. `paintRibbon` (`60-streets.js`) pinta una calle por zonas (`s.paint`). `build.py` toma los semáforos y los árboles del plano del juego (`juego/modelos/entorno/osm.json`) como `DATA.plaza`. El juego, con un `plaza.glb` exportado de esta página, recorta también la capa `hitos` en la zona de `calles.gd`: si no, los faroles y semáforos de la página, del tamaño de un píxel de arte, quedaban junto a los suyos.
